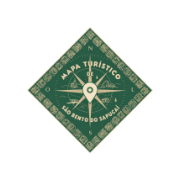
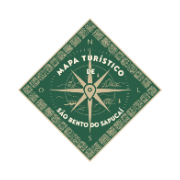
chore: a arte nova do mapa entra nos cinco ícones do PWA
Troca os binários que `METADATA_APP_MAPA` e o `mapa.webmanifest` já
apontam — ICO 48×48, PNG 96×96, apple-icon 180×180 e os dois maskable de
192 e 512 — pela leva nova saída do gerador de ícones. Os tamanhos batem
um a um com os antigos, então nenhum caminho muda e as duas rotas do
mapa continuam instalando o mesmo app.

O `manifest.json` que veio junto do gerador ficou de fora: é o
boilerplate com `"name": "MyWebSite"`, e quem descreve o app do mapa é o
`mapa.webmanifest` do projeto, que já está escrito.

O `icon0.svg` segue fora pelo motivo de sempre, agora com o número certo
no comentário: encolheu de 5,7 MB para 762 KB, o que não muda o
argumento de que nenhum navegador vai preferi-lo aos PNG/ICO.

Claude-Session: https://claude.ai/code/session_01Gksu1oEGnBF6LtxpqjK81P

Changed region(s): [[0.0833, 0.0833, 0.9167, 0.9167]]

diff --git a/src/lib/pwa-mapa.ts b/src/lib/pwa-mapa.ts
@@ -18,7 +18,7 @@ import type { Metadata } from 'next';
  * `public/` com prefixo `mapa-` e são apontados explicitamente.
  *
  * O `icon0.svg` que veio do gerador de ícones ficou de fora, pelo mesmo
- * motivo que o da pousada: são 5,7 MB de SVG rasterizado (1871×1871) para um
+ * motivo que o da pousada: 762 KB de SVG rasterizado (1254×1254) para um
  * favicon que nenhum navegador vai preferir aos PNG/ICO abaixo.
  */
 export const METADATA_APP_MAPA = {
